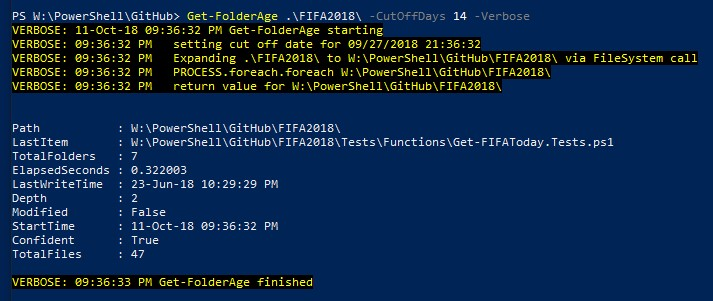
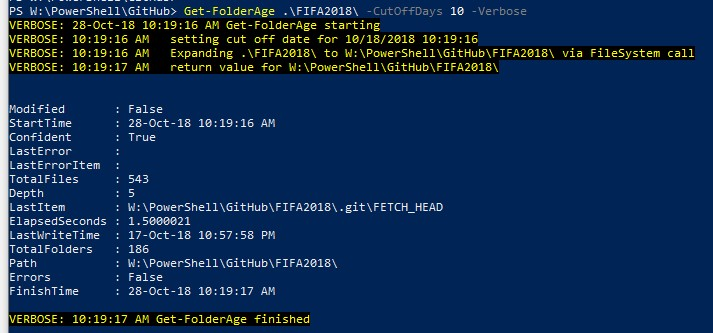
update images and readme

Changed region(s): [[0.0, 0.0, 0.9874, 1.0]]

diff --git a/README.md b/README.md
@@ -95,9 +95,11 @@ It also outputs diagnostic/statistics info:
 * [string]`LastItem` - an item with the latest timestamp found (note that this might not be really the latest modified file. If this timestamp is newer than CutOffDate, commandlet will not search further.
 * [int]`Depth` - total depth of scanned folders relative to initial folder. If QuickTest, then it will be 1, regardless of real depth. If CutOffDate specified, it might not go to full depth, so this number will be smaller than full depth.
 * [decimal]`ElapsedSeconds` - time spent in checking the folder
+* [datetime]`StartTime` - date and time when folder check started
 * [datetime]`FinishTime` - date and time when folder check was completed
 * [bool]`Errors` - indicate if command encountered errors during its execution (i.e. Access Denied on some file)
 * [string]`LastError` - text of the last encountered error
+* [string]`LastErrorItem` - file/folder which raised last error
 
 ### Restartable script
 
